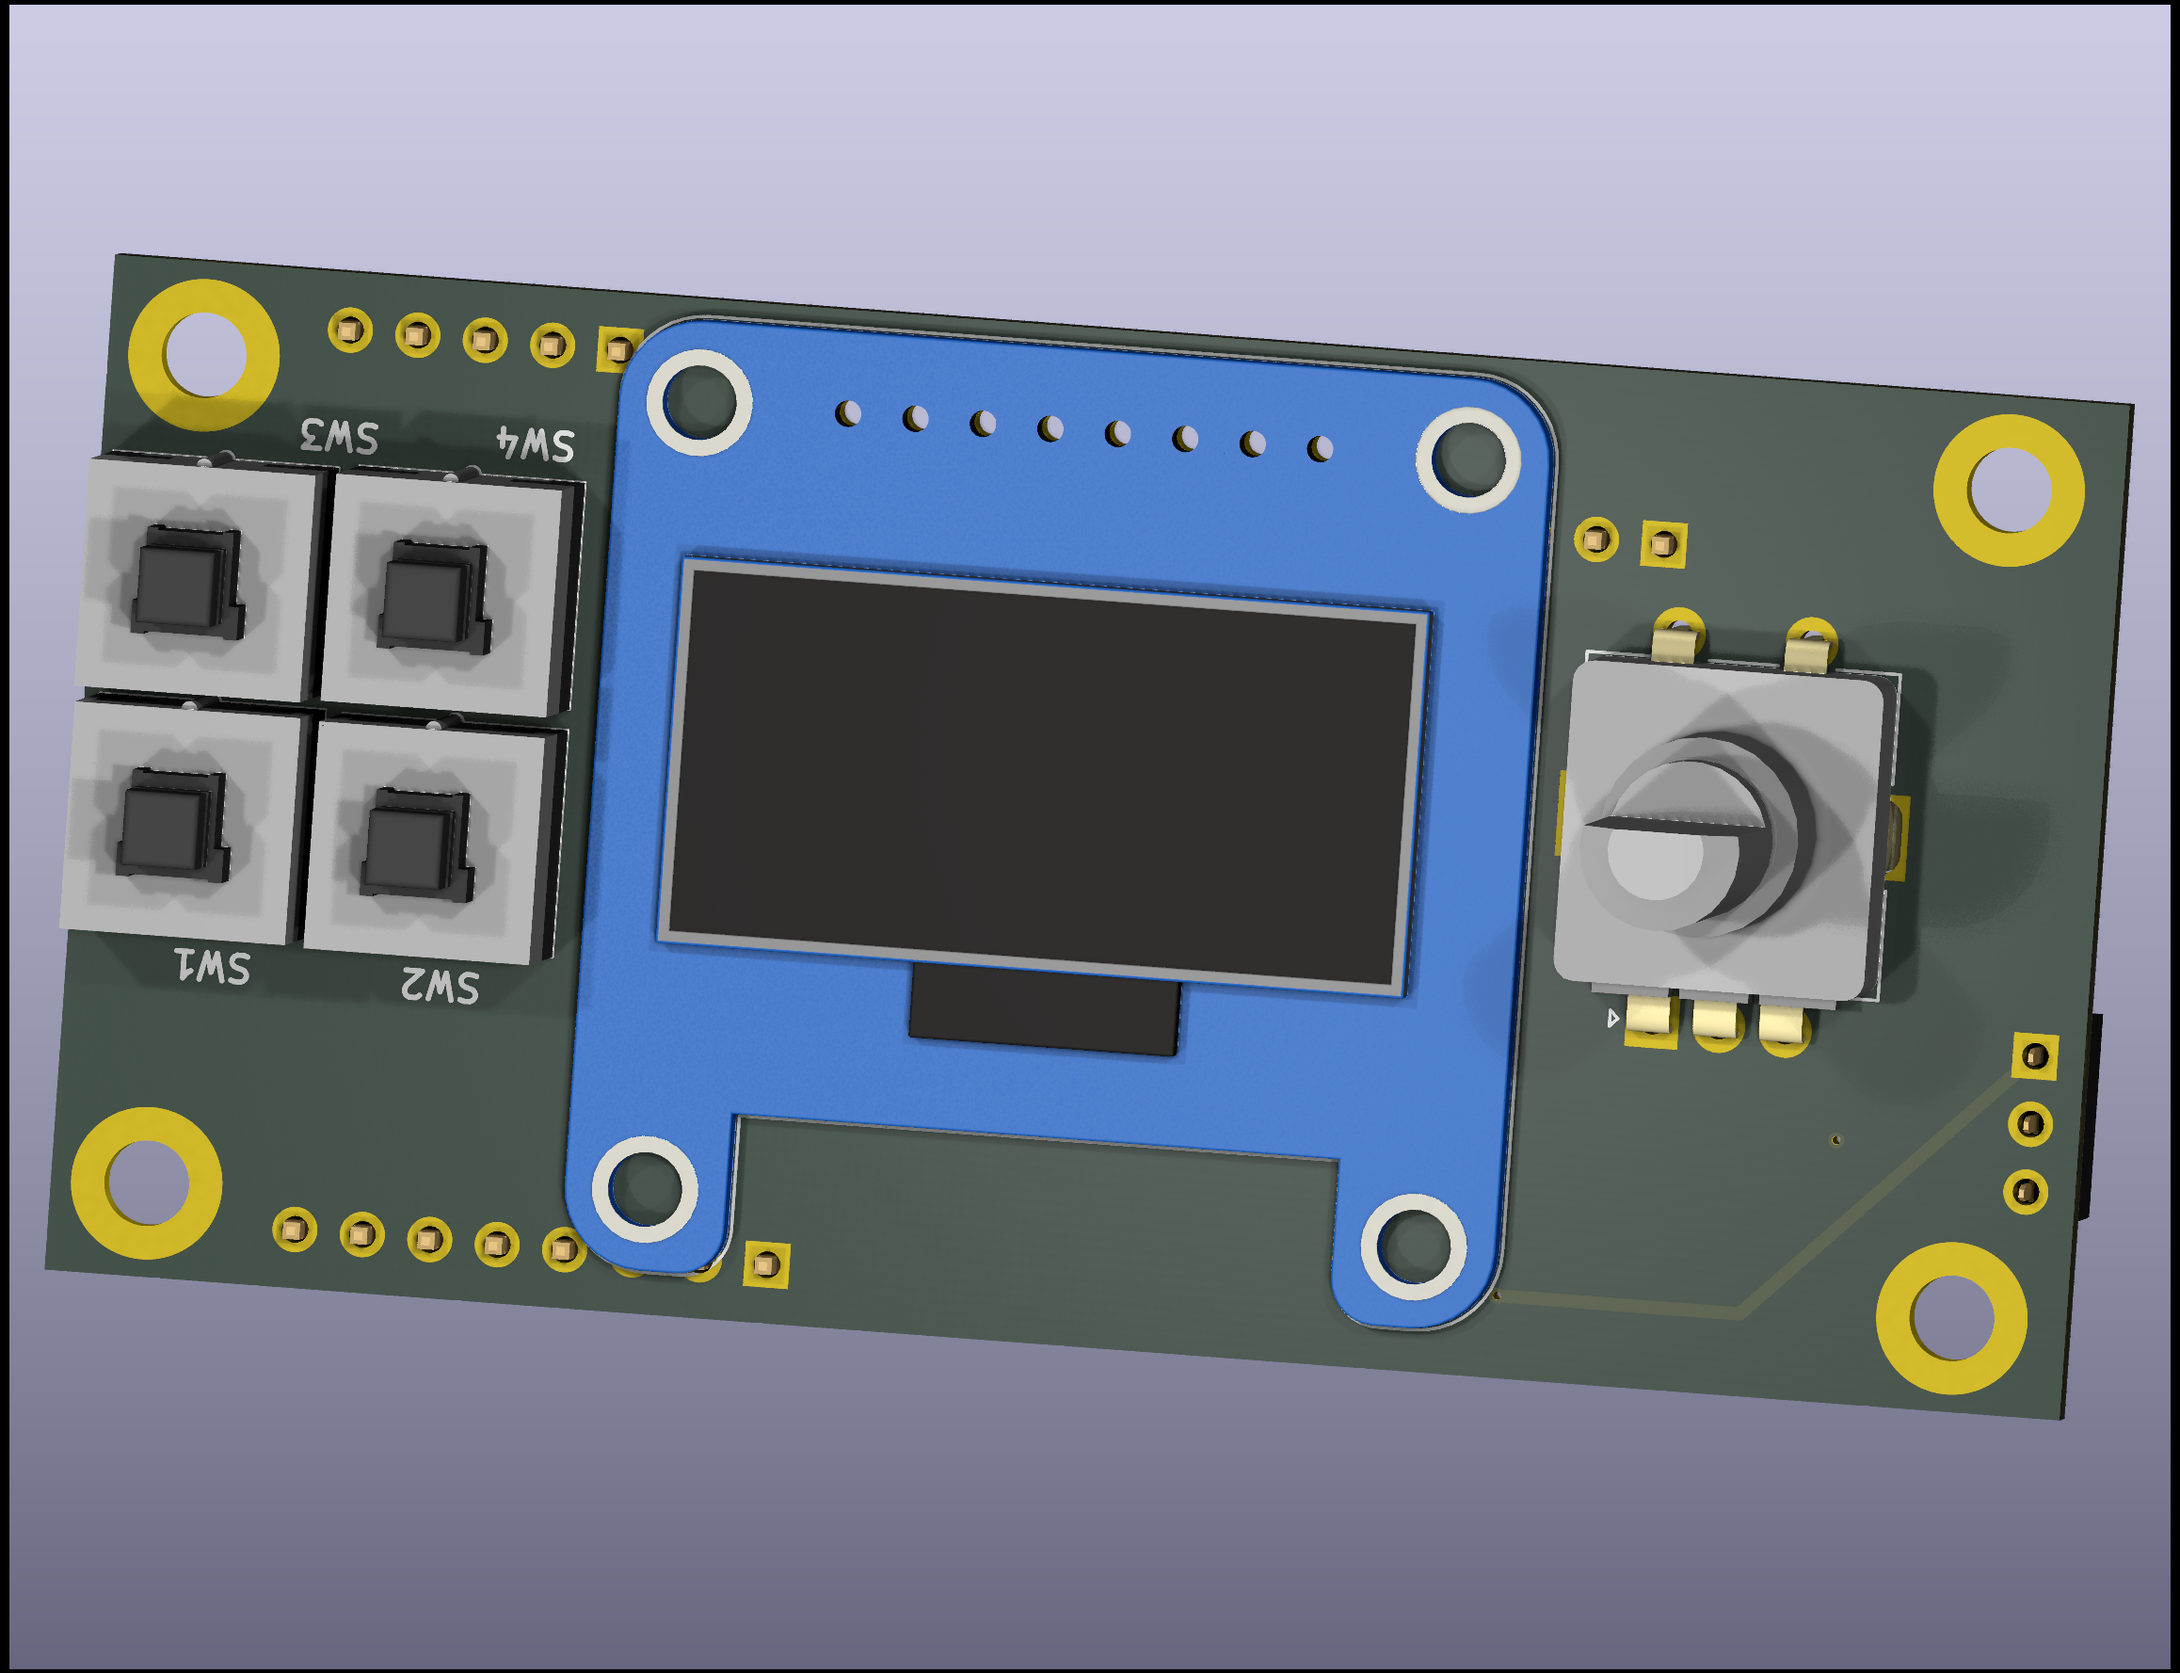
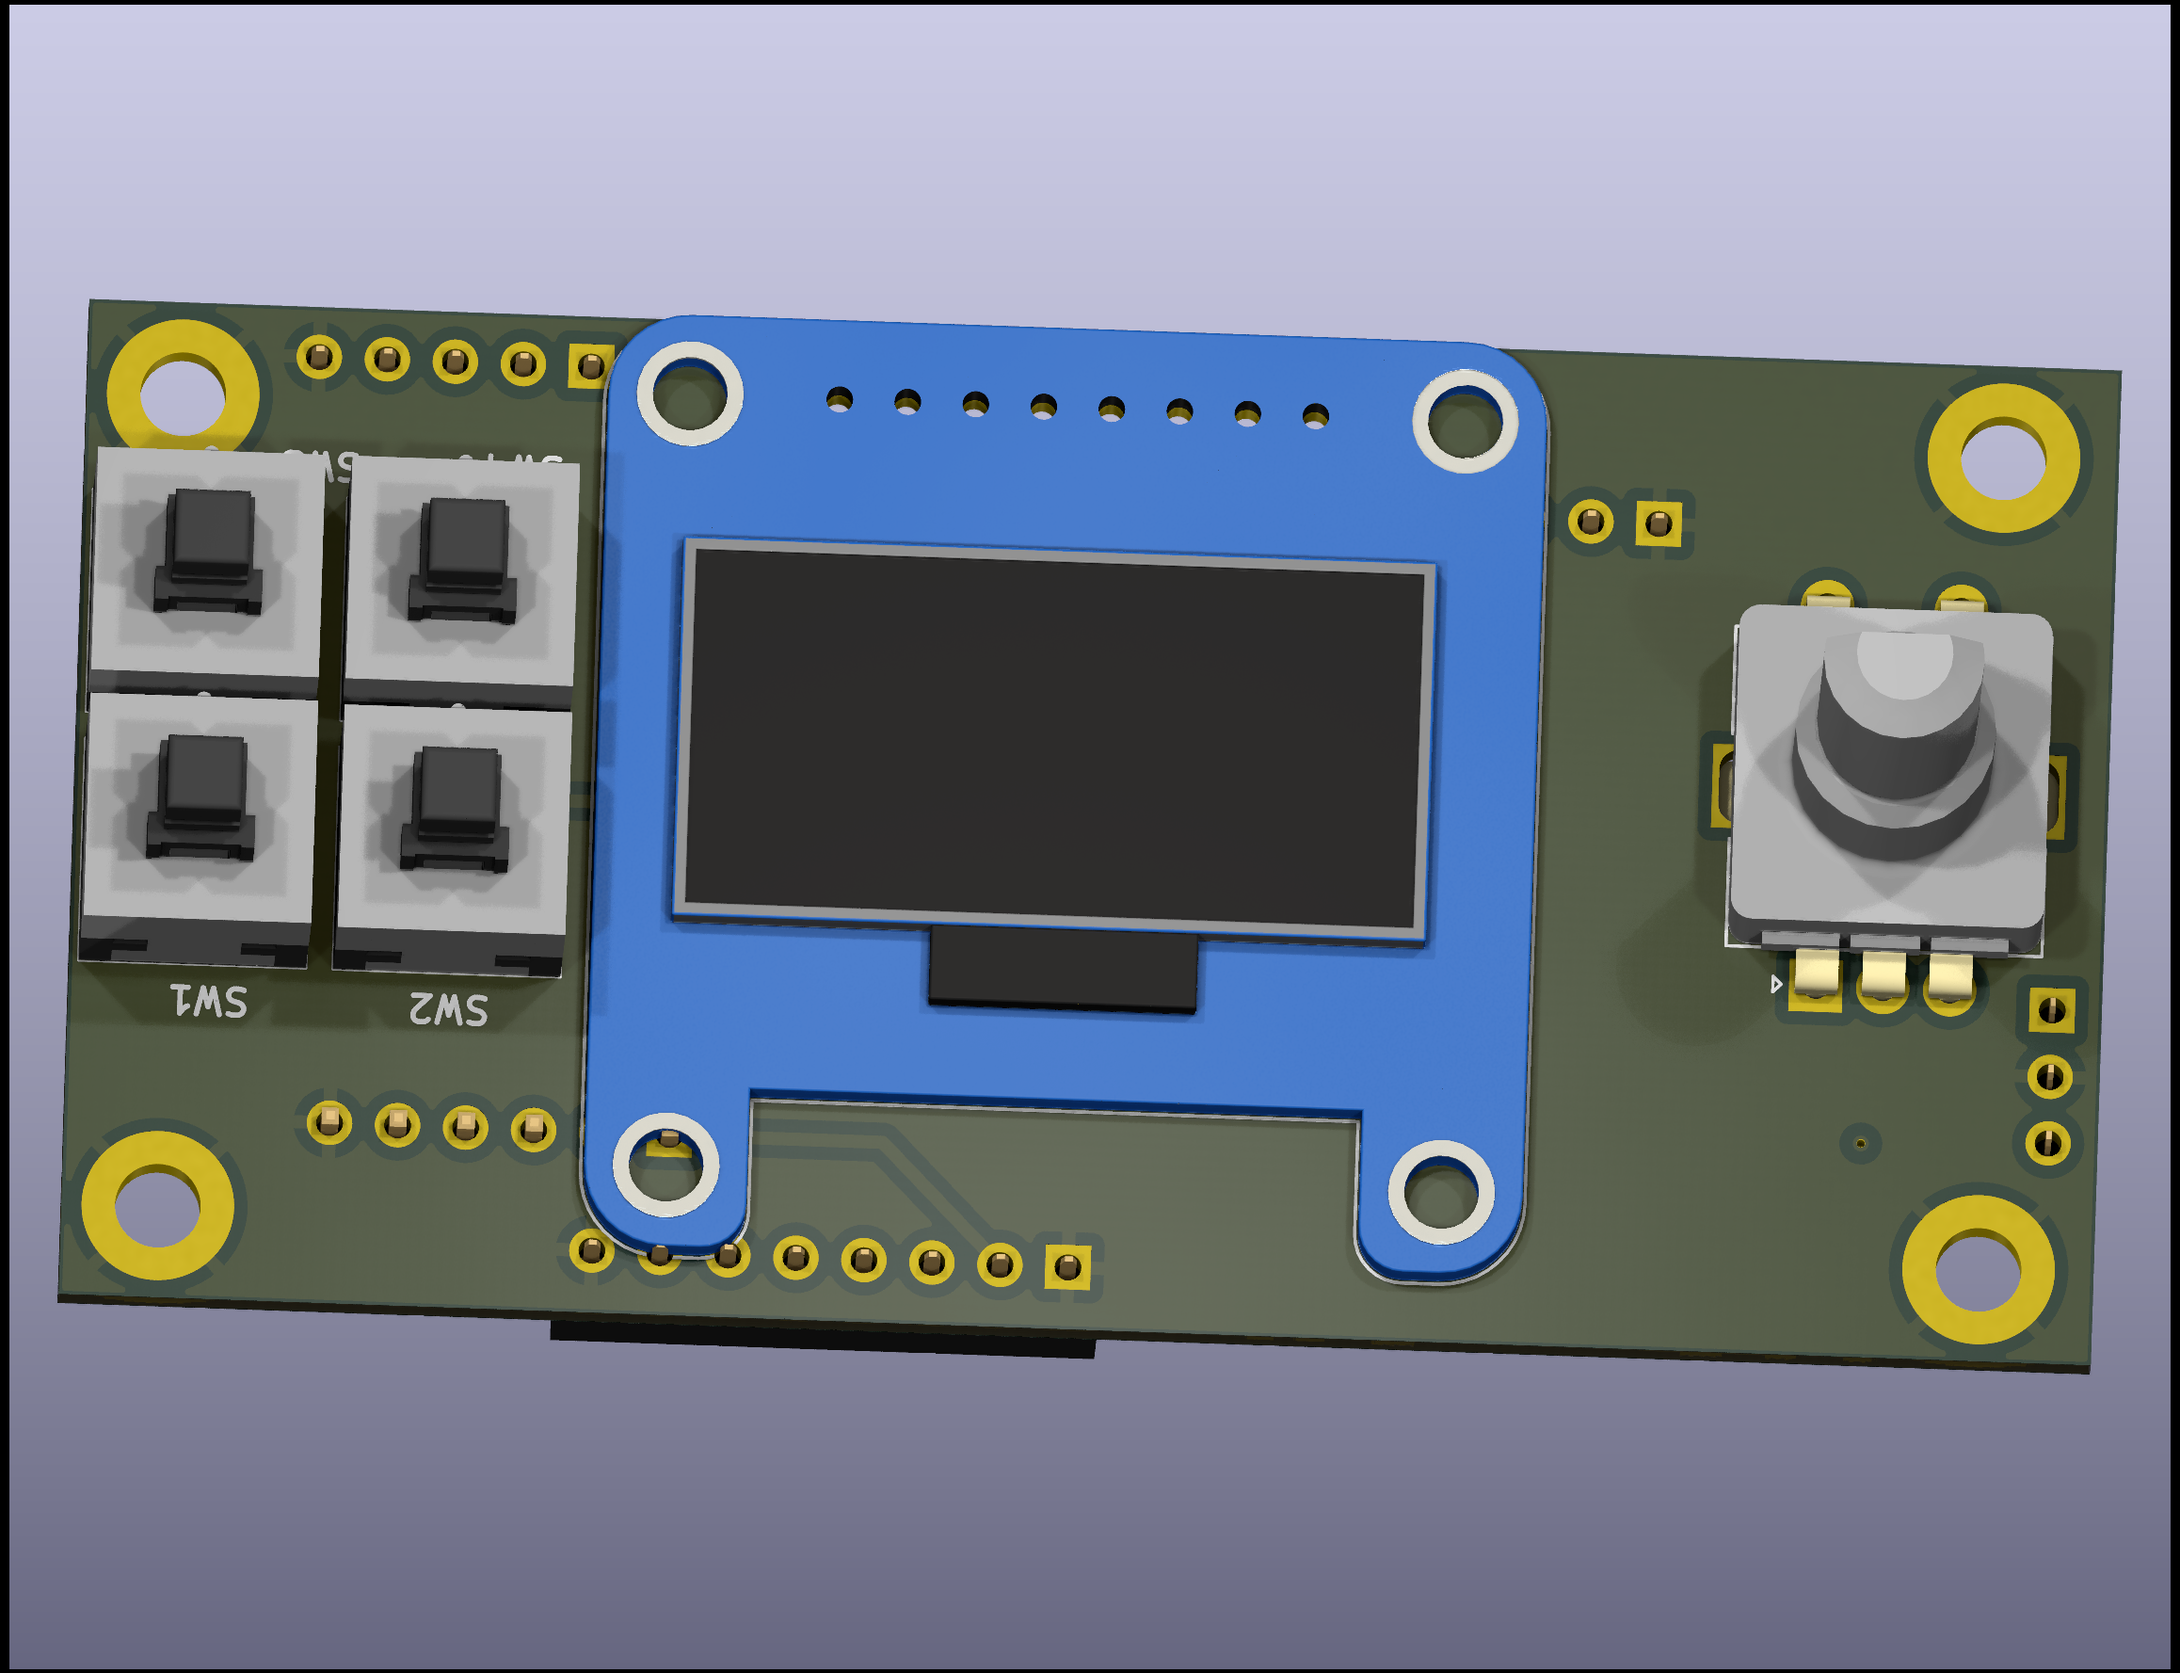
Update some spacing, add pot buffers

Changed region(s): [[0.0, 0.1548, 0.9948, 0.8666]]

diff --git a/Duophonic/MPU-display.md b/Duophonic/MPU-display.md
@@ -8,7 +8,7 @@ For space reasons, the MIDI opto-isolator is also placed here.
 
 ## Board
 
-Connections to the MPU board, optocoupler, are on the front.
+Connections to the MPU board, optocoupler, and buffers for the potentiometers are on the front.
 
 ![front](./img/MPU-Display-front.png)
 
